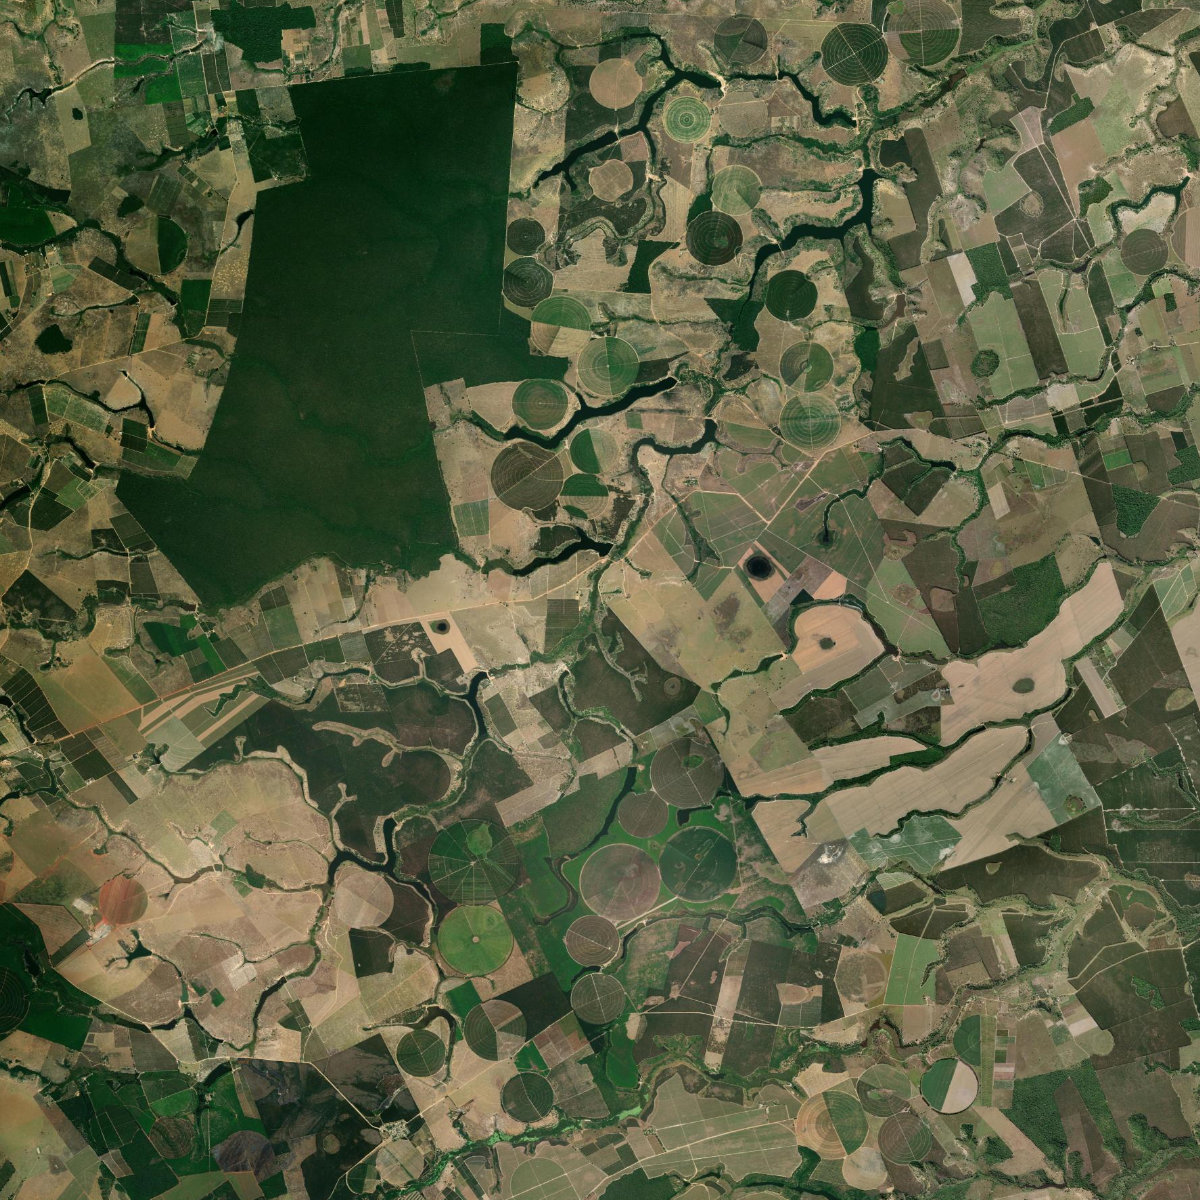
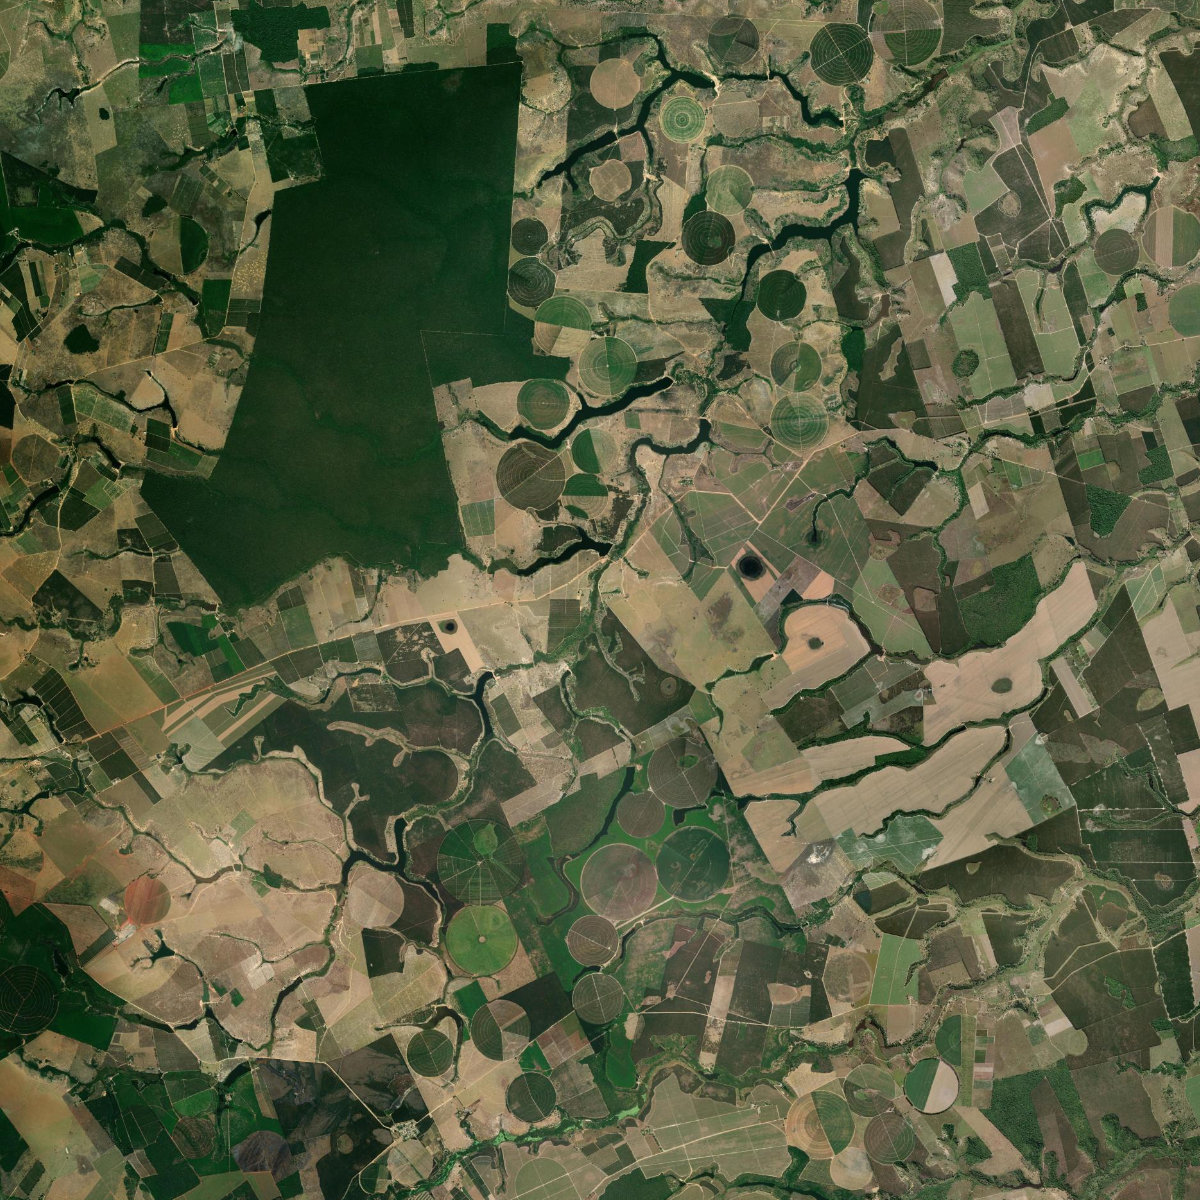
fix: project offline images to web mercator for correct alignment

diff --git a/sw.js b/sw.js
@@ -1,4 +1,4 @@
-const CACHE_NAME = 'agrogis-v63';
+const CACHE_NAME = 'agrogis-v64';
 
 // Core assets to pre-cache when the Service Worker installs
 try {

diff --git a/backend/scraper.py b/backend/scraper.py
@@ -113,20 +113,40 @@ class DJISmartFarmScraper:
                     pass
             
             if intercepted_geojson:
-                # Salvar o GeoJSON para que o endpoint de conversão possa ler depois
-                with open("dji_latest_geojson.json", "w", encoding="utf-8") as f:
-                    json.dump(intercepted_geojson, f, ensure_ascii=False)
+                import uuid
+                from datetime import datetime
+                
+                # Gerar ID único para o mapa
+                map_id = f"dji_{uuid.uuid4().hex[:8]}"
+                now_str = datetime.now().strftime('%Y-%m-%d %H:%M')
+                
+                new_map = {
+                    "id": map_id,
+                    "name": f"Talhão DJI ({now_str})",
+                    "area_ha": 0.0, # Pode ser calculado depois
+                    "date": now_str,
+                    "geojson": intercepted_geojson
+                }
+                
+                # Ler mapas existentes
+                maps_file = "dji_saved_maps.json"
+                saved_maps = []
+                if os.path.exists(maps_file):
+                    try:
+                        with open(maps_file, "r", encoding="utf-8") as f:
+                            saved_maps = json.load(f)
+                    except:
+                        pass
+                
+                # Adicionar novo mapa
+                saved_maps.append(new_map)
+                
+                # Salvar arquivo atualizado
+                with open(maps_file, "w", encoding="utf-8") as f:
+                    json.dump(saved_maps, f, ensure_ascii=False, indent=4)
                     
-                print("[RPA] Arquivo de mapa DJI salvo. O navegador será fechado agora.")
-                return [
-                    {
-                        "id": "dji_poly_1",
-                        "name": "TESTE 01 - SmartFarm (Automático)",
-                        "area_ha": 38.63,
-                        "date": "2026-08-10",
-                        "geojson": intercepted_geojson
-                    }
-                ]
+                print(f"[RPA] Arquivo de mapa DJI salvo com ID {map_id}. O navegador será fechado agora.")
+                return [new_map]
             else:
                 raise Exception("Nenhum mapa foi interceptado a tempo. Verifique se você fez o login e abriu o mapa.")
             

diff --git a/backend/main.py b/backend/main.py
@@ -421,18 +421,25 @@ class DjiToXagRequest(BaseModel):
 async def convert_dji_to_xag(req: DjiToXagRequest):
     import geopandas as gpd
     
-    # Ler o GeoJSON capturado pelo interceptador
-    geojson_path = "dji_latest_geojson.json"
+    # Ler o histórico de GeoJSONs capturados
+    geojson_path = "dji_saved_maps.json"
     if not os.path.exists(geojson_path):
-        raise HTTPException(status_code=404, detail="Nenhum mapa capturado recentemente. Sincronize novamente.")
+        raise HTTPException(status_code=404, detail="Nenhum mapa salvo no sistema.")
         
     with open(geojson_path, "r", encoding="utf-8") as f:
-        dji_data = json.load(f)
+        saved_maps = json.load(f)
+        
+    # Encontrar o mapa específico pelo ID
+    dji_data = next((m for m in saved_maps if m["id"] == req.id), None)
+    if not dji_data:
+        raise HTTPException(status_code=404, detail="Mapa não encontrado no histórico.")
+        
+    geojson = dji_data.get('geojson', {})
         
     # Extrair as features do tipo Polygon (Geralmente PlantZone)
-    features = [feat for feat in dji_data.get('features', []) if feat.get('geometry') and feat['geometry']['type'] == 'Polygon']
+    features = [feat for feat in geojson.get('features', []) if feat.get('geometry') and feat['geometry']['type'] == 'Polygon']
     if not features:
-        features = dji_data.get('features', [])
+        features = geojson.get('features', [])
         
     if not features:
         raise HTTPException(status_code=400, detail="O arquivo interceptado não contém polígonos válidos.")

diff --git a/generate_static_basemap.py b/generate_static_basemap.py
@@ -13,7 +13,9 @@ MAX_WORKERS = 3
 IMAGE_SIZE = 1200 # Download 1200x1200 images for lighter size and faster download
 
 def get_export_url(min_lon, min_lat, max_lon, max_lat):
-    return f"https://server.arcgisonline.com/ArcGIS/rest/services/World_Imagery/MapServer/export?bbox={min_lon},{min_lat},{max_lon},{max_lat}&bboxSR=4326&size={IMAGE_SIZE},{IMAGE_SIZE}&imageSR=4326&format=jpg&f=image"
+    # bboxSR=4326 (input coordinates are lat/lon)
+    # imageSR=3857 (output image is Web Mercator to align with Leaflet)
+    return f"https://server.arcgisonline.com/ArcGIS/rest/services/World_Imagery/MapServer/export?bbox={min_lon},{min_lat},{max_lon},{max_lat}&bboxSR=4326&size={IMAGE_SIZE},{IMAGE_SIZE}&imageSR=3857&format=jpg&f=image"
 
 def process_coords(coords, bounds):
     if not coords: return
